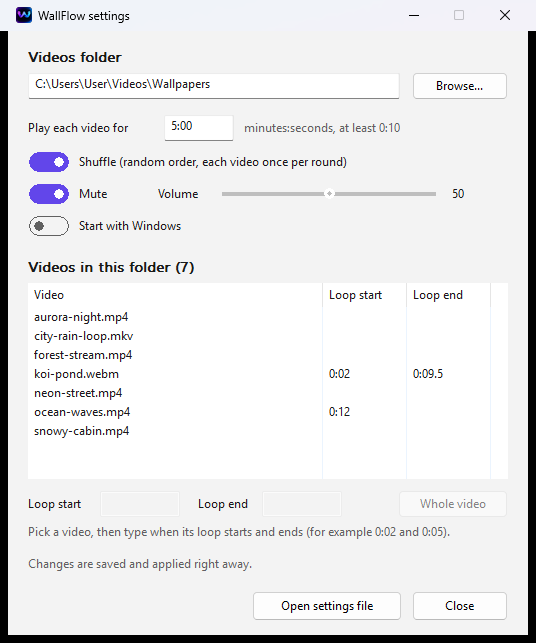
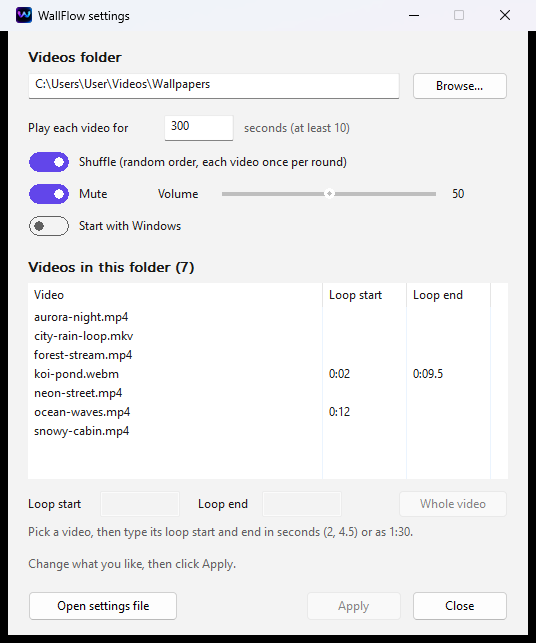
README: Apply, seconds, the overlay bug; version 0.2.1

diff --git a/README.md b/README.md
@@ -6,7 +6,7 @@
 
 A lightweight live wallpaper app for Windows: it plays videos behind the desktop icons, rotates through a folder of videos with seamless switches, and pauses whenever a maximized or full-screen window (such as a game) covers the screen.
 
-**Status: work in progress.** WallFlow plays videos behind the desktop icons, decoded on the GPU. It loops a video (or a start-to-end part of it), or rotates through a folder, without a black frame or a seek stall at the switch, and notices videos added to or deleted from the folder. It pauses while a maximized or full-screen window covers the screen, the PC is locked or the display is off, lives in the system tray, and recovers by itself when Explorer restarts. A settings window (light or dark, following Windows) changes everything live, and the same settings live in a JSON file you can also edit by hand. See the [Roadmap](#roadmap).
+**Status: work in progress.** WallFlow plays videos behind the desktop icons, decoded on the GPU. It loops a video (or a start-to-end part of it), or rotates through a folder, without a black frame or a seek stall at the switch, and notices videos added to or deleted from the folder. It pauses while a maximized or full-screen window covers the screen, the PC is locked or the display is off, lives in the system tray, and recovers by itself when Explorer restarts. A settings window (light or dark, following Windows) changes everything with one Apply, and the same settings live in a JSON file you can also edit by hand. See the [Roadmap](#roadmap).
 
 **Tech stack:** C++20, Win32 API, libmpv (FFmpeg, Direct3D 11), nlohmann/json, MSVC, CMake, GoogleTest, GitHub Actions.
 
@@ -24,7 +24,7 @@ Get the zip from the [latest release](https://github.com/Niranjen99/WallFlow/rel
 |---|---|
 | ![Settings window, dark](docs/settings-dark.png) | ![Settings window, light](docs/settings-light.png) |
 
-Every change applies at once, with no Save button: pick a folder, set how long each video plays, shuffle, mute or volume, and start with Windows. Pick a video in the list to give it its own loop: type when the loop starts and ends (`0:02`, `90`, `1:02:03.5`), then press Enter or leave the field. A typo is shown in red and not saved. Hover over the loop fields for a note on memory: a loop of 4 seconds or less keeps a second video player loaded all the time.
+Pick a folder, set how many seconds each video plays, shuffle, mute or volume, and start with Windows. Pick a video in the list to give it its own loop: type its start and end in seconds (`2`, `4.5`) or as `1:30`. Nothing changes until you click **Apply** (or press Enter); a typo is shown in red and nothing is applied. Closing with changes not applied asks whether to apply them. Hover over the loop fields for a note on memory: a loop of 4 seconds or less keeps a second video player loaded all the time.
 
 The window writes `%APPDATA%\WallFlow\settings.json`, which you can also edit by hand (the open window follows). Saving from the window rewrites the file, so `//` comments in it are lost.
 
@@ -148,9 +148,13 @@ Folder rotation uses the same swap, with the next video in the waiting player.
 
 - **Plain Win32, laid out in code.** No UI framework: the exe stays under 1 MB with no extra DLLs. Every position is written at 96 DPI and scaled with the monitor's DPI, and dragging the window to a monitor with other scaling lays it out again (`WM_DPICHANGED`).
 - **Light and dark.** The title bar uses the documented `DWMWA_USE_IMMERSIVE_DARK_MODE`. Buttons, text fields, the list and its scrollbars use the dark theme classes Windows ships for File Explorer (`DarkMode_Explorer`, `DarkMode_CFD`, `DarkMode_ItemsView`). Colours come from answering `WM_CTLCOLOR*`. A standard checkbox ignores the text colour in dark mode, so the switches are owner-drawn (`BS_OWNERDRAW`), and the volume slider is custom-drawn (`NM_CUSTOMDRAW`). A light/dark change arrives as `WM_SETTINGCHANGE` with `"ImmersiveColorSet"`, and the window repaints in the new theme.
-- **One path for every change.** The window keeps its own copy of the settings, changes it, and hands the whole copy to the app. The app saves it to settings.json and applies it through the same code as a hand edit, so a new loop or folder still switches seamlessly. The folder watcher then reports that write, but the file matches what is already applied, so nothing happens twice.
+- **One path for every change.** The window keeps two copies of the settings: what WallFlow uses now, and what the window shows with your edits. Apply checks the fields and hands the edited copy to the app. The app saves it to settings.json and applies it through the same code as a hand edit, so a new loop or folder still switches seamlessly. The folder watcher then reports that write, but the file matches what is already applied, so nothing happens twice.
 - **The logic is testable.** What a typed time means, when a loop is too short, and how an edit changes the settings live in `settings_form`, with no window, so they are unit tested.
 - **A bug found while testing.** Quitting from the tray while the folder picker was open left WallFlow running with no windows. The picker runs its own message loop, which swallowed the `WM_QUIT` that ends the main loop. Now quitting closes the picker (`IFileDialog::Close`), and the main loop also stops on a flag set when the controller window is destroyed, so a swallowed `WM_QUIT` can't leave it waiting forever.
+
+## A bug found by a user: the NVIDIA overlay
+
+The first release paused forever on a PC with the NVIDIA app installed. Its GeForce Overlay keeps a screen-sized window open even while the overlay is closed: layered, at opacity 0, and not click-through. The pause rule saw "a window as big as the monitor" and paused. Now a layered window whose opacity (`GetLayeredWindowAttributes`, `LWA_ALPHA`) is 0 never counts as covering the screen. When the overlay is opened with Alt+Z its opacity rises and the wallpaper pauses as it should. A unit test covers both cases.
 
 ## How it watches the folder
 
